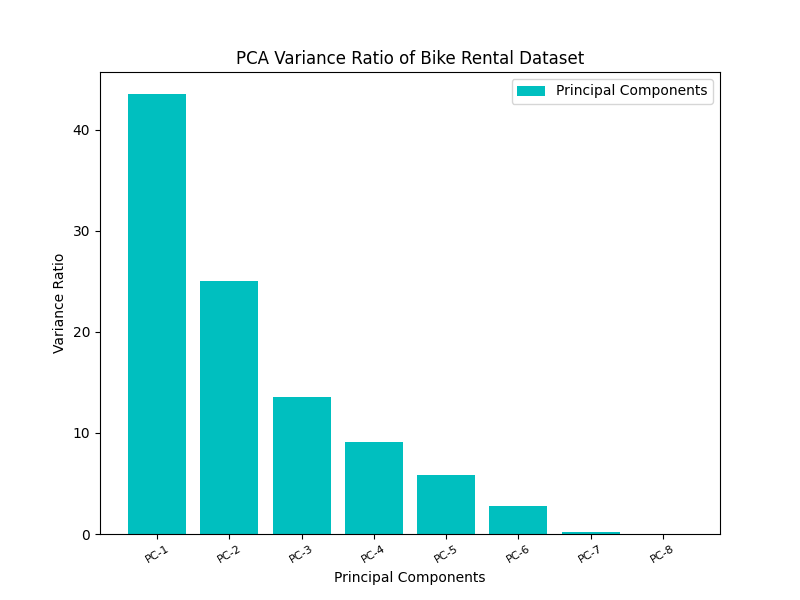
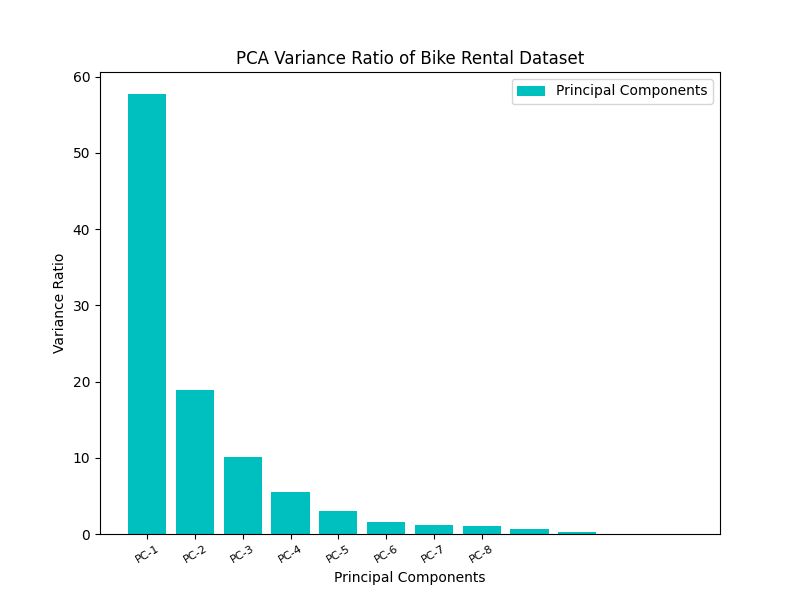
Added correlation code

diff --git a/main.py b/main.py
@@ -121,6 +121,27 @@ palette = sns.color_palette('bright', n_colors=num_colors)
 #ax = sns.pairplot(df_pair, height=2, aspect=0.7, palette=palette)
 #plt.savefig('pair_plot_no_debug.png')
 
+# ******************************
+# CORRELATION MATRIX
+# ******************************
+
+# Visualize features as a heatmap
+cor_eff=df.corr()
+plt.figure(figsize=(6,6))
+sns.heatmap(cor_eff,linecolor="white",linewidths=1,annot=True)
+plt.savefig("full_corr_matrix")
+
+# Plot the lower half of the correlation matrix
+fig, ax = plt.subplots(figsize=(6,6))
+# Compute the correlation matrix
+mask=np.zeros_like(cor_eff)
+plt.savefig("lower_corr_matrix")
+
+# mask = 0: display the correlation matrix
+# mask = 1: display the unique lower triangular values
+#mask[np.triu_indices_from(mask)] = 0
+mask[np.triu_indices_from(mask)] = 1
+sns.heatmap(cor_eff,linecolor="white",linewidths=1,mask=mask,ax=ax,annot=True)
 
 # Following a website for this part:
 # https://www.analyticsvidhya.com/blog/2021/06/data-cleaning-using-pandas/
@@ -188,13 +209,13 @@ plt.ylabel('Variance Ratio')
 plt.title('PCA Variance Ratio of Bike Rental Dataset')
 plt.savefig('PCA_class_variance')
 # plt.show()
-'''
+
 # PCA Dimensionality Reduction
 pca = PCA()
 pc = pca.fit_transform(x_pca)
 x1 = x_pca.transpose()
 X_pca = np.matmul(pc, x1)
-'''
+
 
 # Reformat reduced data
 X_pca_df = pd.DataFrame(data=pc)
